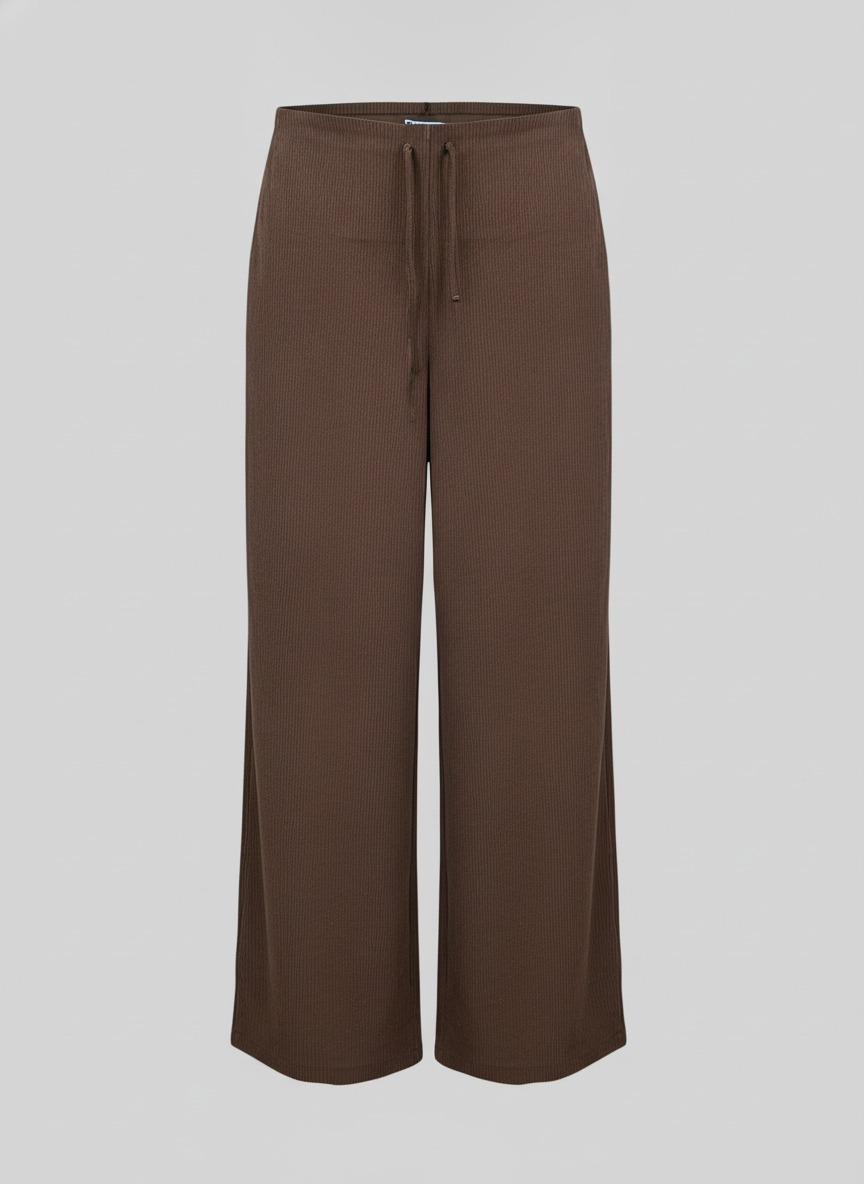
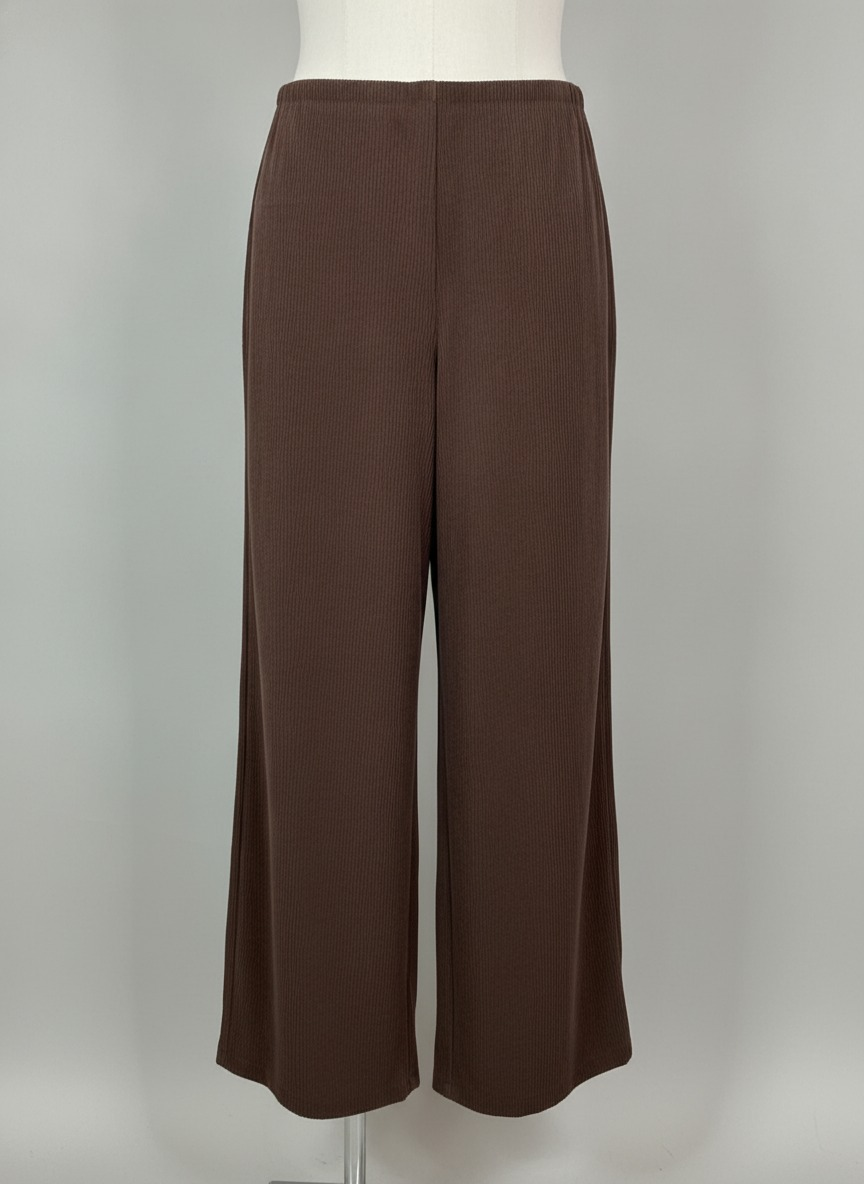
Muestra_2 P05: pretina solo de resorte, sin cordon

diff --git a/Muestra_2/closet.html b/Muestra_2/closet.html
@@ -98,7 +98,7 @@
   <div class="crops"><a href="crops/P05/IMG_9465_1.jpg" target="_blank" title="IMG_9465.jpg"><img src="crops/P05/IMG_9465_1.jpg" loading="lazy"></a><a href="crops/P05/IMG_9466_1.jpg" target="_blank" title="IMG_9466.jpg"><img src="crops/P05/IMG_9466_1.jpg" loading="lazy"></a><a href="crops/P05/IMG_9467_1.jpg" target="_blank" title="IMG_9467.jpg"><img src="crops/P05/IMG_9467_1.jpg" loading="lazy"></a><a href="crops/P05/IMG_9469_1.jpg" target="_blank" title="IMG_9469.jpg"><img src="crops/P05/IMG_9469_1.jpg" loading="lazy"></a><a href="crops/P05/IMG_9470_1.jpg" target="_blank" title="IMG_9470.jpg"><img src="crops/P05/IMG_9470_1.jpg" loading="lazy"></a><a href="crops/P05/IMG_9468_1.jpg" target="_blank" title="IMG_9468.jpg (detalle)"><img src="crops/P05/IMG_9468_1.jpg" loading="lazy"></a></div>
   <div class="meta">
     <div class="fila"><span class="id">P05</span><span class="cat">pantalon</span><span class="marca">OYSHO EUR M USA M MEX M</span></div>
-    <dl><div><dt>Color</dt><dd>Café marrón liso</dd></div><div><dt>Estilo</dt><dd>Pantalón holgado de tiro alto y pierna ancha</dd></div><div><dt>Material</dt><dd><select onchange="material('P05', this.value)" title="Pana acanalada"><option value="">—</option><option value="Algodón 100%">Algodón 100%</option><option value="Algodón 95% / Elastano 5%">Algodón 95% / Elastano 5%</option><option value="Algodón 98% / Elastano 2% (mezclilla)">Algodón 98% / Elastano 2% (mezclilla)</option><option value="Algodón 80% / Poliéster 20%">Algodón 80% / Poliéster 20%</option><option value="Algodón 60% / Poliéster 40%">Algodón 60% / Poliéster 40%</option><option value="Poliéster 100%">Poliéster 100%</option><option value="Poliéster 95% / Elastano 5%">Poliéster 95% / Elastano 5%</option><option value="Poliéster 65% / Algodón 35%">Poliéster 65% / Algodón 35%</option><option value="Poliéster 70% / Viscosa 30%">Poliéster 70% / Viscosa 30%</option><option value="Viscosa 100%">Viscosa 100%</option><option value="Viscosa 95% / Elastano 5%">Viscosa 95% / Elastano 5%</option><option value="Lino 100%">Lino 100%</option><option value="Lino 55% / Algodón 45%">Lino 55% / Algodón 45%</option><option value="Lana 100%">Lana 100%</option><option value="Lana 80% / Poliamida 20%">Lana 80% / Poliamida 20%</option><option value="Seda 100%">Seda 100%</option><option value="Cashmere 100%">Cashmere 100%</option><option value="Lana 90% / Cashmere 10%">Lana 90% / Cashmere 10%</option><option value="Poliamida (nylon) 100%">Poliamida (nylon) 100%</option><option value="Poliamida 80% / Elastano 20%">Poliamida 80% / Elastano 20%</option><option value="Acrílico 100%">Acrílico 100%</option><option value="Poliuretano 100% (piel sintética)">Poliuretano 100% (piel sintética)</option><option value="Cuero 100%">Cuero 100%</option></select></dd></div><div><dt>Detalles</dt><dd>Pretina elástica fina, sin cierres ni botones</dd></div></dl>
+    <dl><div><dt>Color</dt><dd>Café marrón liso</dd></div><div><dt>Estilo</dt><dd>Pantalón holgado de tiro alto y pierna ancha</dd></div><div><dt>Material</dt><dd><select onchange="material('P05', this.value)" title="Pana acanalada"><option value="">—</option><option value="Algodón 100%">Algodón 100%</option><option value="Algodón 95% / Elastano 5%">Algodón 95% / Elastano 5%</option><option value="Algodón 98% / Elastano 2% (mezclilla)">Algodón 98% / Elastano 2% (mezclilla)</option><option value="Algodón 80% / Poliéster 20%">Algodón 80% / Poliéster 20%</option><option value="Algodón 60% / Poliéster 40%">Algodón 60% / Poliéster 40%</option><option value="Poliéster 100%">Poliéster 100%</option><option value="Poliéster 95% / Elastano 5%">Poliéster 95% / Elastano 5%</option><option value="Poliéster 65% / Algodón 35%">Poliéster 65% / Algodón 35%</option><option value="Poliéster 70% / Viscosa 30%">Poliéster 70% / Viscosa 30%</option><option value="Viscosa 100%">Viscosa 100%</option><option value="Viscosa 95% / Elastano 5%">Viscosa 95% / Elastano 5%</option><option value="Lino 100%">Lino 100%</option><option value="Lino 55% / Algodón 45%">Lino 55% / Algodón 45%</option><option value="Lana 100%">Lana 100%</option><option value="Lana 80% / Poliamida 20%">Lana 80% / Poliamida 20%</option><option value="Seda 100%">Seda 100%</option><option value="Cashmere 100%">Cashmere 100%</option><option value="Lana 90% / Cashmere 10%">Lana 90% / Cashmere 10%</option><option value="Poliamida (nylon) 100%">Poliamida (nylon) 100%</option><option value="Poliamida 80% / Elastano 20%">Poliamida 80% / Elastano 20%</option><option value="Acrílico 100%">Acrílico 100%</option><option value="Poliuretano 100% (piel sintética)">Poliuretano 100% (piel sintética)</option><option value="Cuero 100%">Cuero 100%</option></select></dd></div><div><dt>Detalles</dt><dd>Pretina de resorte cubierta, sin cordón, sin cierres ni botones</dd></div></dl>
   </div>
   <div class="acciones">
     <button class="ok" onclick="marcar('P05','aprobada')">Aprobar</button>
@@ -202,7 +202,7 @@
   </div>
 </article></main>
 <script>
-const DATOS = [{"id": "P01", "categoria": "pantalon", "descripcion": "pantalon/leggings negro liso de tiro alto y pierna acampanada, confeccionado en tela elastica ligera acanalada fina, sin botones ni cierres", "marca_talla": "ZARA EUR M USA M MEX 28", "atributos": {"color": "Negro liso", "estilo": "Pantalón de tiro alto y pierna acampanada", "material": "Tela elástica acanalada fina", "detalles": "Cintura elástica de largo completo, sin botones ni cierres", "composicion": "", "composicion_etiqueta": ""}, "material": "", "maniqui": "maniqui/P01.jpg", "maniqui_existe": true, "crops": [{"src": "crops/P01/IMG_9447_1.jpg", "foto": "IMG_9447.jpg", "detalle": false}, {"src": "crops/P01/IMG_9448_1.jpg", "foto": "IMG_9448.jpg", "detalle": false}, {"src": "crops/P01/IMG_9450_1.jpg", "foto": "IMG_9450.jpg", "detalle": false}, {"src": "crops/P01/IMG_9451_1.jpg", "foto": "IMG_9451.jpg", "detalle": false}, {"src": "crops/P01/IMG_9449_1.jpg", "foto": "IMG_9449.jpg", "detalle": true}, {"src": "crops/P01/IMG_9452_1.jpg", "foto": "IMG_9452.jpg", "detalle": true}]}, {"id": "P02", "categoria": "pantalon", "descripcion": "pantalon de vestir negro/azul marino oscuro de tiro alto y corte holgado de pierna ancha, con pretina con trabillas, pinzas frontales, boton y cierre", "marca_talla": "Stradivarius EUR 36 USA 4 MEX 26 UK 8", "atributos": {"color": "Negro liso", "estilo": "Pantalón de vestir de tiro alto y pierna ancha", "material": "Tela de vestir", "detalles": "Pretina con trabillas, pinzas frontales y cierre con botón", "composicion": "", "composicion_etiqueta": ""}, "material": "", "maniqui": "maniqui/P02.jpg", "maniqui_existe": true, "crops": [{"src": "crops/P02/IMG_9453_1.jpg", "foto": "IMG_9453.jpg", "detalle": false}, {"src": "crops/P02/IMG_9454_1.jpg", "foto": "IMG_9454.jpg", "detalle": false}, {"src": "crops/P02/IMG_9455_1.jpg", "foto": "IMG_9455.jpg", "detalle": false}, {"src": "crops/P02/IMG_9456_1.jpg", "foto": "IMG_9456.jpg", "detalle": true}, {"src": "crops/P02/IMG_9457_1.jpg", "foto": "IMG_9457.jpg", "detalle": true}]}, {"id": "P03", "categoria": "falda", "descripcion": "falda larga de mezclilla negro deslavado con abertura central frontal, tiro alto, pretina con boton y cremallera, estilo cinco bolsillos y dobladillo deshilachado", "marca_talla": "STRADIVARIUS 36 USA 04 MEX 26 UK 08", "atributos": {"color": "Negro deslavado", "estilo": "Falda larga de tiro alto con abertura frontal", "material": "Mezclilla", "detalles": "Pretina con boton y cremallera, estilo de cinco bolsillos y abertura central", "composicion": "", "composicion_etiqueta": ""}, "material": "", "maniqui": "maniqui/P03.jpg", "maniqui_existe": true, "crops": [{"src": "crops/P03/IMG_9458_1.jpg", "foto": "IMG_9458.jpg", "detalle": false}, {"src": "crops/P03/IMG_9461_1.jpg", "foto": "IMG_9461.jpg", "detalle": false}, {"src": "crops/P03/IMG_9459_1.jpg", "foto": "IMG_9459.jpg", "detalle": true}, {"src": "crops/P03/IMG_9460_1.jpg", "foto": "IMG_9460.jpg", "detalle": true}]}, {"id": "P04", "categoria": "falda", "descripcion": "falda plisada midi de velour o terciopelo beige/dorado satinado con pretina elastica ancha de color negro", "marca_talla": "Jambi", "atributos": {"color": "Beige dorado satinado con pretina negra", "estilo": "Falda midi plisada de tiro alto", "material": "Terciopelo o velour satinado", "detalles": "Pretina elástica ancha de color negro y diseño plisado", "composicion": "", "composicion_etiqueta": ""}, "material": "", "maniqui": "maniqui/P04.jpg", "maniqui_existe": true, "crops": [{"src": "crops/P04/IMG_9462_1.jpg", "foto": "IMG_9462.jpg", "detalle": false}, {"src": "crops/P04/IMG_9463_1.jpg", "foto": "IMG_9463.jpg", "detalle": false}, {"src": "crops/P04/IMG_9464_1.jpg", "foto": "IMG_9464.jpg", "detalle": true}]}, {"id": "P05", "categoria": "pantalon", "descripcion": "pantalon holgado de pana acanalada fina en color cafe marron, tiro alto y pierna ancha recta; pretina PLANA y lisa de la misma pana, sin fruncido elastico visible por fuera, con un cordon fino ajustable que sale del interior de la pretina; sin botones ni cierres", "marca_talla": "OYSHO EUR M USA M MEX M", "atributos": {"color": "Café marrón liso", "estilo": "Pantalón holgado de tiro alto y pierna ancha", "material": "Pana acanalada", "detalles": "Pretina elástica fina, sin cierres ni botones", "composicion": "", "composicion_etiqueta": ""}, "material": "", "maniqui": "maniqui/P05.jpg", "maniqui_existe": true, "crops": [{"src": "crops/P05/IMG_9465_1.jpg", "foto": "IMG_9465.jpg", "detalle": false}, {"src": "crops/P05/IMG_9466_1.jpg", "foto": "IMG_9466.jpg", "detalle": false}, {"src": "crops/P05/IMG_9467_1.jpg", "foto": "IMG_9467.jpg", "detalle": false}, {"src": "crops/P05/IMG_9469_1.jpg", "foto": "IMG_9469.jpg", "detalle": false}, {"src": "crops/P05/IMG_9470_1.jpg", "foto": "IMG_9470.jpg", "detalle": false}, {"src": "crops/P05/IMG_9468_1.jpg", "foto": "IMG_9468.jpg", "detalle": true}]}, {"id": "P06", "categoria": "pantalon", "descripcion": "pantalon de vestir marron/cafe oscuro liso de tiro alto y pierna ancha, con pretina, pliegues frontales, boton al tono y cierre", "marca_talla": "Stradivarius EUR 38 USA 6 MEX 28 UK 10", "atributos": {"color": "Marrón oscuro liso", "estilo": "Pantalón de vestir de tiro alto y pierna ancha", "material": "Tela de vestir lisa", "detalles": "Pretina con botón al tono, cierre frontal y pliegues en la cintura", "composicion": "", "composicion_etiqueta": ""}, "material": "", "maniqui": "maniqui/P06.jpg", "maniqui_existe": true, "crops": [{"src": "crops/P06/IMG_9471_1.jpg", "foto": "IMG_9471.jpg", "detalle": false}, {"src": "crops/P06/IMG_9472_1.jpg", "foto": "IMG_9472.jpg", "detalle": false}, {"src": "crops/P06/IMG_9473_1.jpg", "foto": "IMG_9473.jpg", "detalle": false}, {"src": "crops/P06/IMG_9474_1.jpg", "foto": "IMG_9474.jpg", "detalle": true}, {"src": "crops/P06/IMG_9475_1.jpg", "foto": "IMG_9475.jpg", "detalle": true}]}, {"id": "P07", "categoria": "jeans", "descripcion": "jeans de mezclilla gris oscuro con lavado deslavado, diseño de pierna ancha tipo cargo con bolsillos amplios parche al frente y laterales, tiro alto con boton y cierre", "marca_talla": "MANGO EUR 36 USA 4 MEX 3", "atributos": {"color": "Gris oscuro deslavado", "estilo": "Jeans tipo cargo de tiro alto y pierna ancha", "material": "Mezclilla", "detalles": "Bolsillos parche frontales, costuras de adorno, botón y cierre de cremallera", "composicion": "", "composicion_etiqueta": ""}, "material": "", "maniqui": "maniqui/P07.jpg", "maniqui_existe": true, "crops": [{"src": "crops/P07/IMG_9476_1.jpg", "foto": "IMG_9476.jpg", "detalle": false}, {"src": "crops/P07/IMG_9477_1.jpg", "foto": "IMG_9477.jpg", "detalle": false}, {"src": "crops/P07/IMG_9478_1.jpg", "foto": "IMG_9478.jpg", "detalle": false}, {"src": "crops/P07/IMG_9479_1.jpg", "foto": "IMG_9479.jpg", "detalle": true}, {"src": "crops/P07/IMG_9480_1.jpg", "foto": "IMG_9480.jpg", "detalle": true}]}, {"id": "P08", "categoria": "jeans", "descripcion": "jeans de mezclilla azul claro de pierna ancha (wide leg) y tiro alto, con presillas, boton metalico dorado y cierre frontal", "marca_talla": "ZARA USA 6 MEX 28", "atributos": {"color": "Azul claro deslavado", "estilo": "Jeans de tiro alto y pierna ancha", "material": "Mezclilla de algodón", "detalles": "Cierre frontal con botón metálico dorado y presillas", "composicion": "", "composicion_etiqueta": ""}, "material": "", "maniqui": "maniqui/P08.jpg", "maniqui_existe": true, "crops": [{"src": "crops/P08/IMG_9481_1.jpg", "foto": "IMG_9481.jpg", "detalle": false}, {"src": "crops/P08/IMG_9482_1.jpg", "foto": "IMG_9482.jpg", "detalle": false}, {"src": "crops/P08/IMG_9483_1.jpg", "foto": "IMG_9483.jpg", "detalle": true}, {"src": "crops/P08/IMG_9484_1.jpg", "foto": "IMG_9484.jpg", "detalle": true}]}, {"id": "P09", "categoria": "pantalon", "descripcion": "pantalon de vestir estilo culotte de pierna ancha color verde esmeralda/verde azulado, de tiro alto y confeccionado en tela ligera lisa", "marca_talla": "ZARA WOMAN EUR L USA L MEX 30", "atributos": {"color": "Verde esmeralda liso", "estilo": "Pantalón de vestir estilo culotte de tiro alto y pierna ancha", "material": "Tela ligera lisa y fluida", "detalles": "Pretina alta ajustada y caida holgada", "composicion": "", "composicion_etiqueta": ""}, "material": "", "maniqui": "maniqui/P09.jpg", "maniqui_existe": true, "crops": [{"src": "crops/P09/IMG_9485_1.jpg", "foto": "IMG_9485.jpg", "detalle": false}, {"src": "crops/P09/IMG_9486_1.jpg", "foto": "IMG_9486.jpg", "detalle": false}, {"src": "crops/P09/IMG_9487_1.jpg", "foto": "IMG_9487.jpg", "detalle": true}, {"src": "crops/P09/IMG_9488_1.jpg", "foto": "IMG_9488.jpg", "detalle": true}]}, {"id": "P10", "categoria": "pantalon", "descripcion": "pantalon de vestir holgado de tiro alto con patron a cuadros estilo plaid en tonos verde oliva, cafe, beige y gris, con pliegues frontales y trabillas", "marca_talla": "ZARA EUR S USA S MEX 26", "atributos": {"color": "Verde oliva, café, beige y gris con patrón a cuadros", "estilo": "Pantalón de vestir holgado de tiro alto", "material": "Tela tejida de vestir", "detalles": "Pliegues frontales, pretina con trabillas y largo completo", "composicion": "", "composicion_etiqueta": ""}, "material": "", "maniqui": "maniqui/P10.jpg", "maniqui_existe": true, "crops": [{"src": "crops/P10/IMG_9489_1.jpg", "foto": "IMG_9489.jpg", "detalle": false}, {"src": "crops/P10/IMG_9490_1.jpg", "foto": "IMG_9490.jpg", "detalle": false}, {"src": "crops/P10/IMG_9491_1.jpg", "foto": "IMG_9491.jpg", "detalle": false}, {"src": "crops/P10/IMG_9492_1.jpg", "foto": "IMG_9492.jpg", "detalle": true}]}, {"id": "P11", "categoria": "jeans", "descripcion": "jeans de mezclilla azul medio con deslavado ligero, corte acampanado (flare), tiro alto con bolsillos frontales, boton metalico y cremallera", "marca_talla": "MNG FLARE EUR 36 USA 4 MEX 3", "atributos": {"color": "Azul medio con deslavado ligero", "estilo": "Pantalón de mezclilla corte acampanado (flare)", "material": "Mezclilla de algodón", "detalles": "Bolsillos frontales, botón metálico y cierre de cremallera", "composicion": "", "composicion_etiqueta": ""}, "material": "", "maniqui": "maniqui/P11.jpg", "maniqui_existe": true, "crops": [{"src": "crops/P11/IMG_9493_1.jpg", "foto": "IMG_9493.jpg", "detalle": false}, {"src": "crops/P11/IMG_9494_1.jpg", "foto": "IMG_9494.jpg", "detalle": false}, {"src": "crops/P11/IMG_9495_1.jpg", "foto": "IMG_9495.jpg", "detalle": false}, {"src": "crops/P11/IMG_9496_1.jpg", "foto": "IMG_9496.jpg", "detalle": true}]}, {"id": "P12", "categoria": "jeans", "descripcion": "jeans de mezclilla azul claro deslavado de tiro alto y corte recto amplio, con bragueta de botones metalicos expuestos y aberturas en los tobillos", "marca_talla": "kur.kuma 26", "atributos": {"color": "Azul claro deslavado", "estilo": "Jeans de tiro alto y corte recto amplio", "material": "Mezclilla", "detalles": "Bragueta de botones metálicos expuestos y aberturas en los tobillos", "composicion": "", "composicion_etiqueta": ""}, "material": "", "maniqui": "maniqui/P12.jpg", "maniqui_existe": true, "crops": [{"src": "crops/P12/IMG_9497_1.jpg", "foto": "IMG_9497.jpg", "detalle": false}, {"src": "crops/P12/IMG_9498_1.jpg", "foto": "IMG_9498.jpg", "detalle": false}, {"src": "crops/P12/IMG_9499_1.jpg", "foto": "IMG_9499.jpg", "detalle": false}, {"src": "crops/P12/IMG_9500_1.jpg", "foto": "IMG_9500.jpg", "detalle": true}]}, {"id": "P13", "categoria": "jeans", "descripcion": "jeans de mezclilla azul claro deslavado, tiro alto de pierna ancha tipo wide leg, con bolsillos delanteros, boton metalico y cierre", "marca_talla": "ZARA EUR 36 USA 4 MEX 26", "atributos": {"color": "Azul claro deslavado", "estilo": "Pantalón de mezclilla de tiro alto y pierna ancha corte wide leg", "material": "Mezclilla aparente", "detalles": "Bolsillos frontales, pretina con trabillas, cierre de cremallera y botón metálico", "composicion": "", "composicion_etiqueta": ""}, "material": "", "maniqui": "maniqui/P13.jpg", "maniqui_existe": true, "crops": [{"src": "crops/P13/IMG_9501_1.jpg", "foto": "IMG_9501.jpg", "detalle": false}, {"src": "crops/P13/IMG_9502_1.jpg", "foto": "IMG_9502.jpg", "detalle": false}, {"src": "crops/P13/IMG_9503_1.jpg", "foto": "IMG_9503.jpg", "detalle": false}, {"src": "crops/P13/IMG_9504_1.jpg", "foto": "IMG_9504.jpg", "detalle": false}, {"src": "crops/P13/IMG_9505_1.jpg", "foto": "IMG_9505.jpg", "detalle": true}]}];
+const DATOS = [{"id": "P01", "categoria": "pantalon", "descripcion": "pantalon/leggings negro liso de tiro alto y pierna acampanada, confeccionado en tela elastica ligera acanalada fina, sin botones ni cierres", "marca_talla": "ZARA EUR M USA M MEX 28", "atributos": {"color": "Negro liso", "estilo": "Pantalón de tiro alto y pierna acampanada", "material": "Tela elástica acanalada fina", "detalles": "Cintura elástica de largo completo, sin botones ni cierres", "composicion": "", "composicion_etiqueta": ""}, "material": "", "maniqui": "maniqui/P01.jpg", "maniqui_existe": true, "crops": [{"src": "crops/P01/IMG_9447_1.jpg", "foto": "IMG_9447.jpg", "detalle": false}, {"src": "crops/P01/IMG_9448_1.jpg", "foto": "IMG_9448.jpg", "detalle": false}, {"src": "crops/P01/IMG_9450_1.jpg", "foto": "IMG_9450.jpg", "detalle": false}, {"src": "crops/P01/IMG_9451_1.jpg", "foto": "IMG_9451.jpg", "detalle": false}, {"src": "crops/P01/IMG_9449_1.jpg", "foto": "IMG_9449.jpg", "detalle": true}, {"src": "crops/P01/IMG_9452_1.jpg", "foto": "IMG_9452.jpg", "detalle": true}]}, {"id": "P02", "categoria": "pantalon", "descripcion": "pantalon de vestir negro/azul marino oscuro de tiro alto y corte holgado de pierna ancha, con pretina con trabillas, pinzas frontales, boton y cierre", "marca_talla": "Stradivarius EUR 36 USA 4 MEX 26 UK 8", "atributos": {"color": "Negro liso", "estilo": "Pantalón de vestir de tiro alto y pierna ancha", "material": "Tela de vestir", "detalles": "Pretina con trabillas, pinzas frontales y cierre con botón", "composicion": "", "composicion_etiqueta": ""}, "material": "", "maniqui": "maniqui/P02.jpg", "maniqui_existe": true, "crops": [{"src": "crops/P02/IMG_9453_1.jpg", "foto": "IMG_9453.jpg", "detalle": false}, {"src": "crops/P02/IMG_9454_1.jpg", "foto": "IMG_9454.jpg", "detalle": false}, {"src": "crops/P02/IMG_9455_1.jpg", "foto": "IMG_9455.jpg", "detalle": false}, {"src": "crops/P02/IMG_9456_1.jpg", "foto": "IMG_9456.jpg", "detalle": true}, {"src": "crops/P02/IMG_9457_1.jpg", "foto": "IMG_9457.jpg", "detalle": true}]}, {"id": "P03", "categoria": "falda", "descripcion": "falda larga de mezclilla negro deslavado con abertura central frontal, tiro alto, pretina con boton y cremallera, estilo cinco bolsillos y dobladillo deshilachado", "marca_talla": "STRADIVARIUS 36 USA 04 MEX 26 UK 08", "atributos": {"color": "Negro deslavado", "estilo": "Falda larga de tiro alto con abertura frontal", "material": "Mezclilla", "detalles": "Pretina con boton y cremallera, estilo de cinco bolsillos y abertura central", "composicion": "", "composicion_etiqueta": ""}, "material": "", "maniqui": "maniqui/P03.jpg", "maniqui_existe": true, "crops": [{"src": "crops/P03/IMG_9458_1.jpg", "foto": "IMG_9458.jpg", "detalle": false}, {"src": "crops/P03/IMG_9461_1.jpg", "foto": "IMG_9461.jpg", "detalle": false}, {"src": "crops/P03/IMG_9459_1.jpg", "foto": "IMG_9459.jpg", "detalle": true}, {"src": "crops/P03/IMG_9460_1.jpg", "foto": "IMG_9460.jpg", "detalle": true}]}, {"id": "P04", "categoria": "falda", "descripcion": "falda plisada midi de velour o terciopelo beige/dorado satinado con pretina elastica ancha de color negro", "marca_talla": "Jambi", "atributos": {"color": "Beige dorado satinado con pretina negra", "estilo": "Falda midi plisada de tiro alto", "material": "Terciopelo o velour satinado", "detalles": "Pretina elástica ancha de color negro y diseño plisado", "composicion": "", "composicion_etiqueta": ""}, "material": "", "maniqui": "maniqui/P04.jpg", "maniqui_existe": true, "crops": [{"src": "crops/P04/IMG_9462_1.jpg", "foto": "IMG_9462.jpg", "detalle": false}, {"src": "crops/P04/IMG_9463_1.jpg", "foto": "IMG_9463.jpg", "detalle": false}, {"src": "crops/P04/IMG_9464_1.jpg", "foto": "IMG_9464.jpg", "detalle": true}]}, {"id": "P05", "categoria": "pantalon", "descripcion": "pantalon holgado de pana acanalada fina en color cafe chocolate oscuro, tiro alto y pierna ancha recta; pretina de resorte (elastico) cubierta con la misma pana, lisa; sin cordon, sin hilos, sin lazos, sin botones ni cierres", "marca_talla": "OYSHO EUR M USA M MEX M", "atributos": {"color": "Café marrón liso", "estilo": "Pantalón holgado de tiro alto y pierna ancha", "material": "Pana acanalada", "detalles": "Pretina de resorte cubierta, sin cordón, sin cierres ni botones", "composicion": "", "composicion_etiqueta": ""}, "material": "", "maniqui": "maniqui/P05.jpg", "maniqui_existe": true, "crops": [{"src": "crops/P05/IMG_9465_1.jpg", "foto": "IMG_9465.jpg", "detalle": false}, {"src": "crops/P05/IMG_9466_1.jpg", "foto": "IMG_9466.jpg", "detalle": false}, {"src": "crops/P05/IMG_9467_1.jpg", "foto": "IMG_9467.jpg", "detalle": false}, {"src": "crops/P05/IMG_9469_1.jpg", "foto": "IMG_9469.jpg", "detalle": false}, {"src": "crops/P05/IMG_9470_1.jpg", "foto": "IMG_9470.jpg", "detalle": false}, {"src": "crops/P05/IMG_9468_1.jpg", "foto": "IMG_9468.jpg", "detalle": true}]}, {"id": "P06", "categoria": "pantalon", "descripcion": "pantalon de vestir marron/cafe oscuro liso de tiro alto y pierna ancha, con pretina, pliegues frontales, boton al tono y cierre", "marca_talla": "Stradivarius EUR 38 USA 6 MEX 28 UK 10", "atributos": {"color": "Marrón oscuro liso", "estilo": "Pantalón de vestir de tiro alto y pierna ancha", "material": "Tela de vestir lisa", "detalles": "Pretina con botón al tono, cierre frontal y pliegues en la cintura", "composicion": "", "composicion_etiqueta": ""}, "material": "", "maniqui": "maniqui/P06.jpg", "maniqui_existe": true, "crops": [{"src": "crops/P06/IMG_9471_1.jpg", "foto": "IMG_9471.jpg", "detalle": false}, {"src": "crops/P06/IMG_9472_1.jpg", "foto": "IMG_9472.jpg", "detalle": false}, {"src": "crops/P06/IMG_9473_1.jpg", "foto": "IMG_9473.jpg", "detalle": false}, {"src": "crops/P06/IMG_9474_1.jpg", "foto": "IMG_9474.jpg", "detalle": true}, {"src": "crops/P06/IMG_9475_1.jpg", "foto": "IMG_9475.jpg", "detalle": true}]}, {"id": "P07", "categoria": "jeans", "descripcion": "jeans de mezclilla gris oscuro con lavado deslavado, diseño de pierna ancha tipo cargo con bolsillos amplios parche al frente y laterales, tiro alto con boton y cierre", "marca_talla": "MANGO EUR 36 USA 4 MEX 3", "atributos": {"color": "Gris oscuro deslavado", "estilo": "Jeans tipo cargo de tiro alto y pierna ancha", "material": "Mezclilla", "detalles": "Bolsillos parche frontales, costuras de adorno, botón y cierre de cremallera", "composicion": "", "composicion_etiqueta": ""}, "material": "", "maniqui": "maniqui/P07.jpg", "maniqui_existe": true, "crops": [{"src": "crops/P07/IMG_9476_1.jpg", "foto": "IMG_9476.jpg", "detalle": false}, {"src": "crops/P07/IMG_9477_1.jpg", "foto": "IMG_9477.jpg", "detalle": false}, {"src": "crops/P07/IMG_9478_1.jpg", "foto": "IMG_9478.jpg", "detalle": false}, {"src": "crops/P07/IMG_9479_1.jpg", "foto": "IMG_9479.jpg", "detalle": true}, {"src": "crops/P07/IMG_9480_1.jpg", "foto": "IMG_9480.jpg", "detalle": true}]}, {"id": "P08", "categoria": "jeans", "descripcion": "jeans de mezclilla azul claro de pierna ancha (wide leg) y tiro alto, con presillas, boton metalico dorado y cierre frontal", "marca_talla": "ZARA USA 6 MEX 28", "atributos": {"color": "Azul claro deslavado", "estilo": "Jeans de tiro alto y pierna ancha", "material": "Mezclilla de algodón", "detalles": "Cierre frontal con botón metálico dorado y presillas", "composicion": "", "composicion_etiqueta": ""}, "material": "", "maniqui": "maniqui/P08.jpg", "maniqui_existe": true, "crops": [{"src": "crops/P08/IMG_9481_1.jpg", "foto": "IMG_9481.jpg", "detalle": false}, {"src": "crops/P08/IMG_9482_1.jpg", "foto": "IMG_9482.jpg", "detalle": false}, {"src": "crops/P08/IMG_9483_1.jpg", "foto": "IMG_9483.jpg", "detalle": true}, {"src": "crops/P08/IMG_9484_1.jpg", "foto": "IMG_9484.jpg", "detalle": true}]}, {"id": "P09", "categoria": "pantalon", "descripcion": "pantalon de vestir estilo culotte de pierna ancha color verde esmeralda/verde azulado, de tiro alto y confeccionado en tela ligera lisa", "marca_talla": "ZARA WOMAN EUR L USA L MEX 30", "atributos": {"color": "Verde esmeralda liso", "estilo": "Pantalón de vestir estilo culotte de tiro alto y pierna ancha", "material": "Tela ligera lisa y fluida", "detalles": "Pretina alta ajustada y caida holgada", "composicion": "", "composicion_etiqueta": ""}, "material": "", "maniqui": "maniqui/P09.jpg", "maniqui_existe": true, "crops": [{"src": "crops/P09/IMG_9485_1.jpg", "foto": "IMG_9485.jpg", "detalle": false}, {"src": "crops/P09/IMG_9486_1.jpg", "foto": "IMG_9486.jpg", "detalle": false}, {"src": "crops/P09/IMG_9487_1.jpg", "foto": "IMG_9487.jpg", "detalle": true}, {"src": "crops/P09/IMG_9488_1.jpg", "foto": "IMG_9488.jpg", "detalle": true}]}, {"id": "P10", "categoria": "pantalon", "descripcion": "pantalon de vestir holgado de tiro alto con patron a cuadros estilo plaid en tonos verde oliva, cafe, beige y gris, con pliegues frontales y trabillas", "marca_talla": "ZARA EUR S USA S MEX 26", "atributos": {"color": "Verde oliva, café, beige y gris con patrón a cuadros", "estilo": "Pantalón de vestir holgado de tiro alto", "material": "Tela tejida de vestir", "detalles": "Pliegues frontales, pretina con trabillas y largo completo", "composicion": "", "composicion_etiqueta": ""}, "material": "", "maniqui": "maniqui/P10.jpg", "maniqui_existe": true, "crops": [{"src": "crops/P10/IMG_9489_1.jpg", "foto": "IMG_9489.jpg", "detalle": false}, {"src": "crops/P10/IMG_9490_1.jpg", "foto": "IMG_9490.jpg", "detalle": false}, {"src": "crops/P10/IMG_9491_1.jpg", "foto": "IMG_9491.jpg", "detalle": false}, {"src": "crops/P10/IMG_9492_1.jpg", "foto": "IMG_9492.jpg", "detalle": true}]}, {"id": "P11", "categoria": "jeans", "descripcion": "jeans de mezclilla azul medio con deslavado ligero, corte acampanado (flare), tiro alto con bolsillos frontales, boton metalico y cremallera", "marca_talla": "MNG FLARE EUR 36 USA 4 MEX 3", "atributos": {"color": "Azul medio con deslavado ligero", "estilo": "Pantalón de mezclilla corte acampanado (flare)", "material": "Mezclilla de algodón", "detalles": "Bolsillos frontales, botón metálico y cierre de cremallera", "composicion": "", "composicion_etiqueta": ""}, "material": "", "maniqui": "maniqui/P11.jpg", "maniqui_existe": true, "crops": [{"src": "crops/P11/IMG_9493_1.jpg", "foto": "IMG_9493.jpg", "detalle": false}, {"src": "crops/P11/IMG_9494_1.jpg", "foto": "IMG_9494.jpg", "detalle": false}, {"src": "crops/P11/IMG_9495_1.jpg", "foto": "IMG_9495.jpg", "detalle": false}, {"src": "crops/P11/IMG_9496_1.jpg", "foto": "IMG_9496.jpg", "detalle": true}]}, {"id": "P12", "categoria": "jeans", "descripcion": "jeans de mezclilla azul claro deslavado de tiro alto y corte recto amplio, con bragueta de botones metalicos expuestos y aberturas en los tobillos", "marca_talla": "kur.kuma 26", "atributos": {"color": "Azul claro deslavado", "estilo": "Jeans de tiro alto y corte recto amplio", "material": "Mezclilla", "detalles": "Bragueta de botones metálicos expuestos y aberturas en los tobillos", "composicion": "", "composicion_etiqueta": ""}, "material": "", "maniqui": "maniqui/P12.jpg", "maniqui_existe": true, "crops": [{"src": "crops/P12/IMG_9497_1.jpg", "foto": "IMG_9497.jpg", "detalle": false}, {"src": "crops/P12/IMG_9498_1.jpg", "foto": "IMG_9498.jpg", "detalle": false}, {"src": "crops/P12/IMG_9499_1.jpg", "foto": "IMG_9499.jpg", "detalle": false}, {"src": "crops/P12/IMG_9500_1.jpg", "foto": "IMG_9500.jpg", "detalle": true}]}, {"id": "P13", "categoria": "jeans", "descripcion": "jeans de mezclilla azul claro deslavado, tiro alto de pierna ancha tipo wide leg, con bolsillos delanteros, boton metalico y cierre", "marca_talla": "ZARA EUR 36 USA 4 MEX 26", "atributos": {"color": "Azul claro deslavado", "estilo": "Pantalón de mezclilla de tiro alto y pierna ancha corte wide leg", "material": "Mezclilla aparente", "detalles": "Bolsillos frontales, pretina con trabillas, cierre de cremallera y botón metálico", "composicion": "", "composicion_etiqueta": ""}, "material": "", "maniqui": "maniqui/P13.jpg", "maniqui_existe": true, "crops": [{"src": "crops/P13/IMG_9501_1.jpg", "foto": "IMG_9501.jpg", "detalle": false}, {"src": "crops/P13/IMG_9502_1.jpg", "foto": "IMG_9502.jpg", "detalle": false}, {"src": "crops/P13/IMG_9503_1.jpg", "foto": "IMG_9503.jpg", "detalle": false}, {"src": "crops/P13/IMG_9504_1.jpg", "foto": "IMG_9504.jpg", "detalle": false}, {"src": "crops/P13/IMG_9505_1.jpg", "foto": "IMG_9505.jpg", "detalle": true}]}];
 const KEY = "closet_muestra1_estado", KEY_MAT = "closet_muestra1_material";
 let materiales = {};
 for (const d of DATOS) materiales[d.id] = d.material || "";
